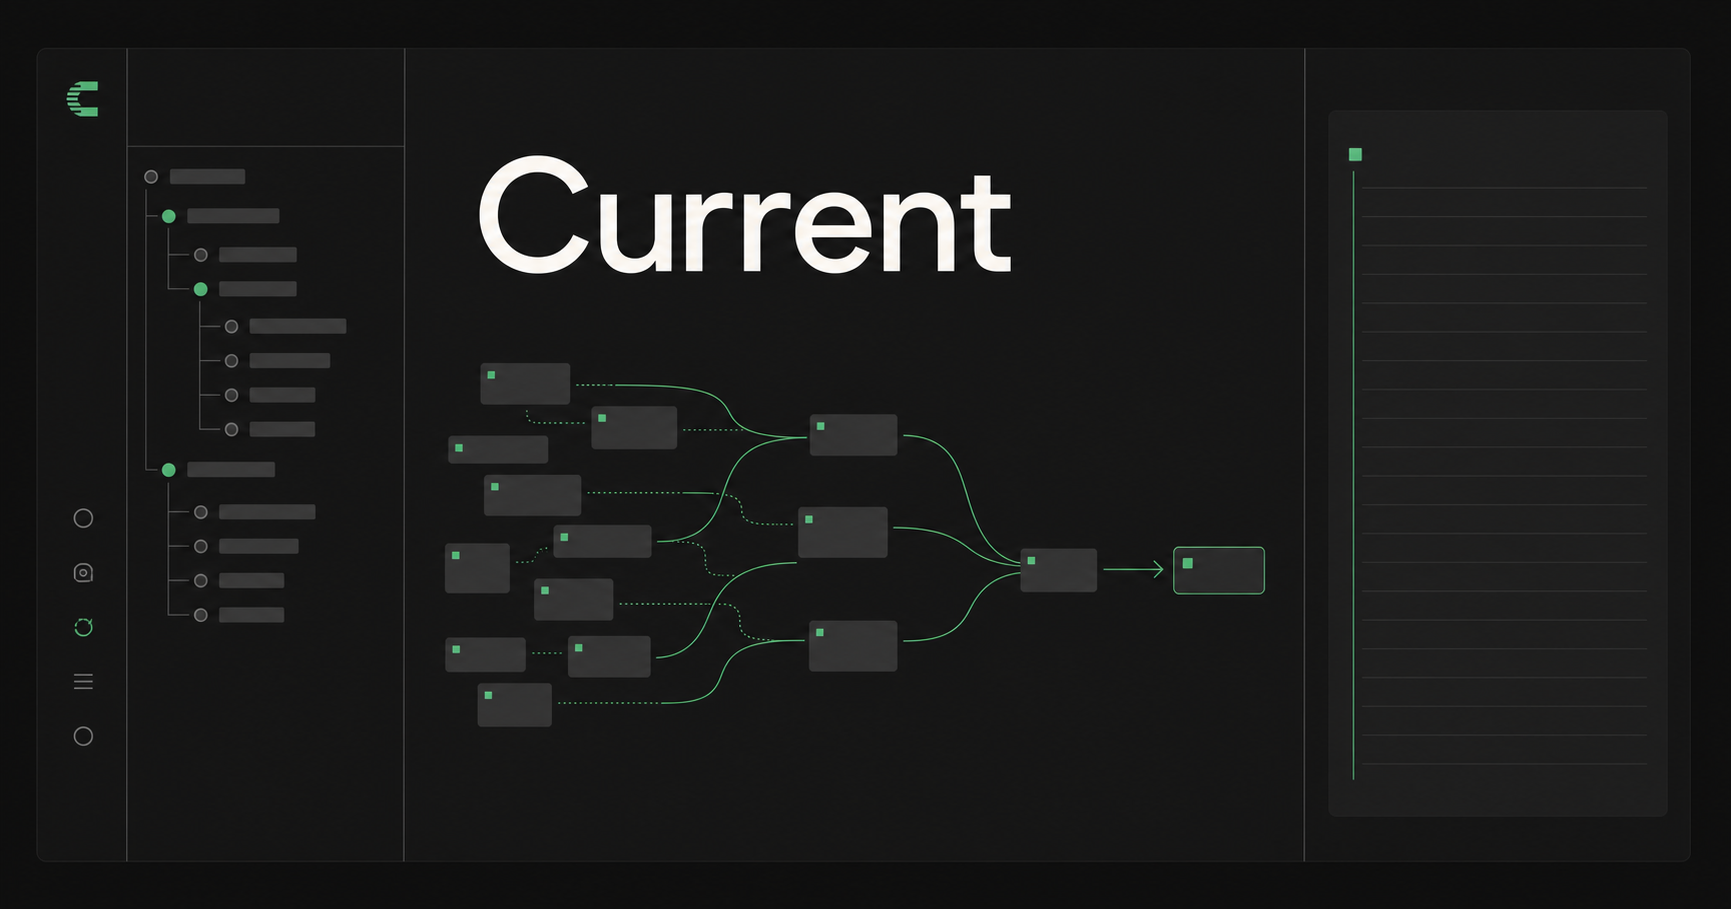
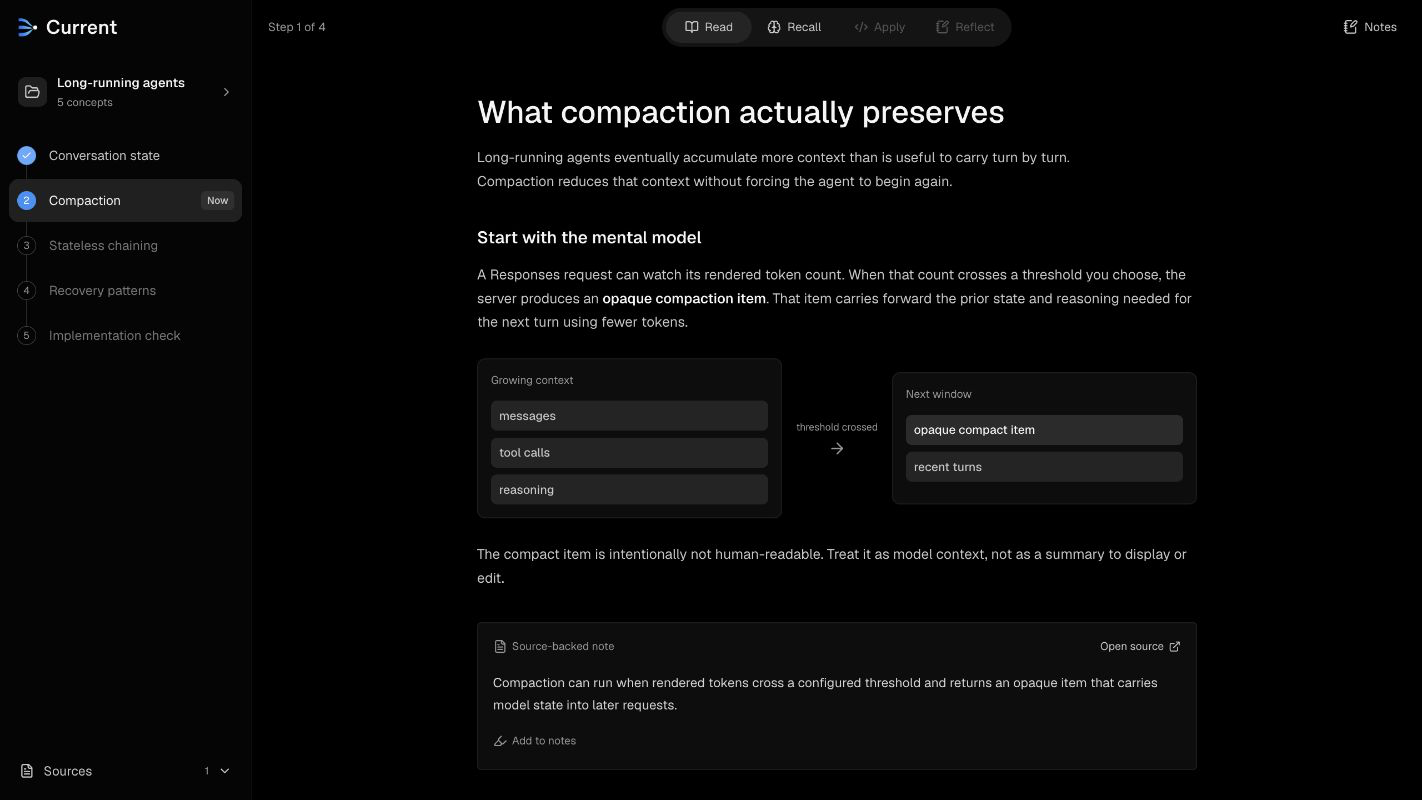
Harden public judge demo

diff --git a/app/create-path-dialog.tsx b/app/create-path-dialog.tsx
@@ -1,6 +1,6 @@
 "use client";
 
-import { ArrowLeft, Check, FileText, Link2, LoaderCircle, Paperclip, Plus, Trash2, X } from "lucide-react";
+import { ArrowLeft, Check, FileText, Link2, LoaderCircle, Paperclip, Plus, Sparkles, Trash2, X } from "lucide-react";
 import { useEffect, useRef, useState } from "react";
 
 import type { GeneratedLearningPath, LearningPath, LearningSource } from "@/lib/learning-path";
@@ -69,6 +69,24 @@ export function CreatePathDialog({ open, onClose, onCreate }: CreatePathDialogPr
   const resetGenerated = () => {
     setGenerated(null);
     setError(null);
+  };
+
+  const loadSampleInputs = async () => {
+    setSubject("Retrieval-augmented generation");
+    setGoal("Learn how to separate retrieval failures from generation failures, then design a small evaluation set for a support assistant.");
+    setLinkInput("");
+    setLinks([]);
+    setGenerated(null);
+    setError(null);
+    try {
+      const response = await fetch("/samples/rag-evaluation.md");
+      if (!response.ok) throw new Error("The sample source could not be loaded.");
+      const source = new File([await response.blob()], "rag-evaluation.md", { type: "text/markdown" });
+      setFiles([source]);
+    } catch (sampleError) {
+      setFiles([]);
+      setError(sampleError instanceof Error ? sampleError.message : "The sample source could not be loaded.");
+    }
   };
 
   const addLink = () => {
@@ -245,6 +263,7 @@ export function CreatePathDialog({ open, onClose, onCreate }: CreatePathDialogPr
           </div>
         ) : (
           <form className="create-path-form" onSubmit={generatePath}>
+            <button type="button" className="path-sample-action" onClick={loadSampleInputs}><Sparkles size={13} /> Use sample</button>
             <label>
               <span>Subject</span>
               <input ref={subjectRef} value={subject} maxLength={80} onChange={(event) => { setSubject(event.target.value); resetGenerated(); }} placeholder="Causal inference" required />

diff --git a/app/globals.css b/app/globals.css
@@ -572,8 +572,10 @@ code, pre, kbd { font-family: var(--font-geist-mono), monospace; letter-spacing:
 .create-path-header h2 { margin: 0; font-size: 14px; font-weight: 580; }
 .create-path-icon { width: 26px; height: 26px; display: grid; place-items: center; border-radius: 7px; color: var(--text-secondary); background: #252525; }
 .create-path-form, .path-preview { min-height: 0; overflow-y: auto; padding: 5px 20px 20px; }
+.path-sample-action { min-height: 28px; display: inline-flex; align-items: center; gap: 5px; float: right; margin-bottom: 5px; border: 0; border-radius: 6px; padding: 0 8px; color: var(--text-secondary); background: #252525; font-size: 9px; cursor: pointer; }
+.path-sample-action:hover { color: var(--text); background: #303030; }
 .create-path-form > label { display: block; margin-top: 15px; }
-.create-path-form > label:first-child { margin-top: 3px; }
+.create-path-form > label:first-of-type { clear: both; margin-top: 3px; }
 .create-path-form label > span, .path-source-fields legend { display: block; margin-bottom: 7px; color: var(--text-secondary); font-size: 10px; font-weight: 540; }
 .create-path-form input, .create-path-form textarea { width: 100%; border: 0; border-radius: 7px; outline: 0; padding: 10px 11px; color: var(--text); background: #202020; box-shadow: inset 0 0 0 1px hsl(var(--foreground) / .07); font: inherit; font-size: 12px; }
 .create-path-form textarea { min-height: 96px; resize: vertical; line-height: 1.55; }

diff --git a/app/layout.tsx b/app/layout.tsx
@@ -23,7 +23,7 @@ export async function generateMetadata(): Promise<Metadata> {
     openGraph: {
       title: "Current",
       description: "Learn what changed. Prove what you understand.",
-      images: [{ url: `${origin}/og.png`, width: 1731, height: 909, alt: "Current dark-mode learning workspace" }],
+      images: [{ url: `${origin}/og.png`, width: 1422, height: 800, alt: "Current source-grounded learning workspace" }],
     },
     twitter: {
       card: "summary_large_image",

diff --git a/public/samples/rag-evaluation.md b/public/samples/rag-evaluation.md
@@ -1,0 +1,15 @@
+# Evaluating retrieval-augmented generation
+
+A retrieval-augmented generation system has two separable stages: retrieval selects evidence, then generation uses that evidence to answer. Evaluating only the final answer hides which stage failed.
+
+## Retrieval quality
+
+Retrieval evaluation asks whether the system found evidence that is relevant and sufficient for the question. Useful measures include recall at k, precision at k, and human judgments of whether the retrieved passages contain the facts needed for a correct answer.
+
+## Answer quality
+
+Answer evaluation asks whether the response is correct, useful, and faithful to the retrieved evidence. A fluent answer can still be unsupported. Faithfulness should therefore be evaluated separately from style and completeness.
+
+## A small evaluation set
+
+Start with representative user questions, expected evidence, and a reference answer or scoring rubric. Include straightforward cases, ambiguous requests, missing-evidence cases, and questions whose answer changed when the source changed. Record retrieval and answer scores separately so improvements target the failing stage.

diff --git a/DEMO_SCRIPT.md b/DEMO_SCRIPT.md
@@ -13,7 +13,7 @@ Target runtime: 2 minutes 45 seconds. This leaves a 15-second buffer below the s
 | 1:20-1:40 | Choose Visual sequence, click Try again, and submit the prepared complete answer. | "Because I struggled, Current offers a visual sequence or concrete example. I can choose the support, retry, and the concept-level gap clears only when I can explain the complete flow." |
 | 1:40-2:00 | Complete the Apply interaction, enter Reflect, add the prepared reflection, and schedule review. | "Apply checks whether I can use the pattern, then reflection connects it to my own work. The result schedules spaced review, with a shorter interval when a concept required more support." |
 | 2:00-2:23 | Return to the Map, open Updates, inspect the source delta, and apply it. | "Current also keeps learning paths current. A research update shows the old and new evidence, names the affected concepts, and requires approval before changing the curriculum. Accepting it creates a review instead of silently rewriting the lesson." |
-| 2:23-2:35 | Show the New Path entry point, then open its source and goal fields without submitting. | "A learner can start another path from a subject, a goal, files, and links. Sol plans the curriculum, Terra authors each lesson, and Luna handles frequent coaching, while the deterministic seeded path keeps this short demo reproducible." |
+| 2:23-2:35 | Open New Path, choose Use sample, generate the path, then jump cut to the Sol-labeled outline. | "A learner can start another path from a subject, a goal, files, and links. Sol plans the curriculum, Terra authors each lesson, and Luna handles frequent coaching. This path was generated from the attached evaluation note, not seeded into the demo." |
 | 2:35-2:45 | End on the full Learning Map. | "I built and refined Current in one continuous Codex task. Codex helped pressure-test the idea, rebuild the interface, implement the GPT-5.6 workflows and persistence, and verify the product with 23 automated tests. Current turns information into understanding that can keep changing with the field." |
 
 ## Prepared responses
@@ -43,7 +43,7 @@ I would use compaction in a long-running research agent so it can preserve decis
 3. Confirm the recall result says **Evaluated by GPT-5.6 Luna**, not **Checked against the lesson**.
 4. Keep the prepared responses available for quick paste and close unrelated browser tabs.
 5. Record at a viewport where the learning path, lesson, and active side panel are readable without zooming.
-6. Do not wait for live path generation in the main take; show the creation form and use a separate cut only if generation materially strengthens the final edit.
+6. Record the Use sample path generation separately and cut from the populated form to the Sol-labeled outline so the main take does not wait on generation.
 7. Keep the exported video below 2:55, publish it publicly on YouTube, and verify audio before submitting.
 
 ## Submission checklist

diff --git a/README.md b/README.md
@@ -72,6 +72,8 @@ The seeded path teaches **context compaction for long-running agents** from Open
 5. Reflect, schedule review, and return to the Learning Map.
 6. Open **Updates** to inspect a source delta, apply the curriculum patch, and create a new review.
 
+To verify that path generation is not hardcoded, open **New path**, choose **Use sample**, and generate the attached RAG evaluation note. Sol returns a new source-grounded path with visible model provenance.
+
 Choose **Reset demo** from the Learning Map at any time to clear custom paths, notes, reviews, source artifacts, and learned preferences.
 
 ## Architecture
@@ -167,7 +169,7 @@ The current suite contains 23 passing tests. `npm test` builds the production ap
 
 ## Status
 
-Build Week MVP: complete. Hosted product: [current-learning-lab.vanzm.chatgpt.site](https://current-learning-lab.vanzm.chatgpt.site).
+Build Week MVP: complete. Hosted product: [current-learning-lab.vanzm.chatgpt.site](https://current-learning-lab.vanzm.chatgpt.site). No account or credentials are required.
 
 Next: profiles and learner setup, deeper interest-aware adaptation, durable cloud sync, and the educator management layer. See [`ROADMAP.md`](./ROADMAP.md).
 